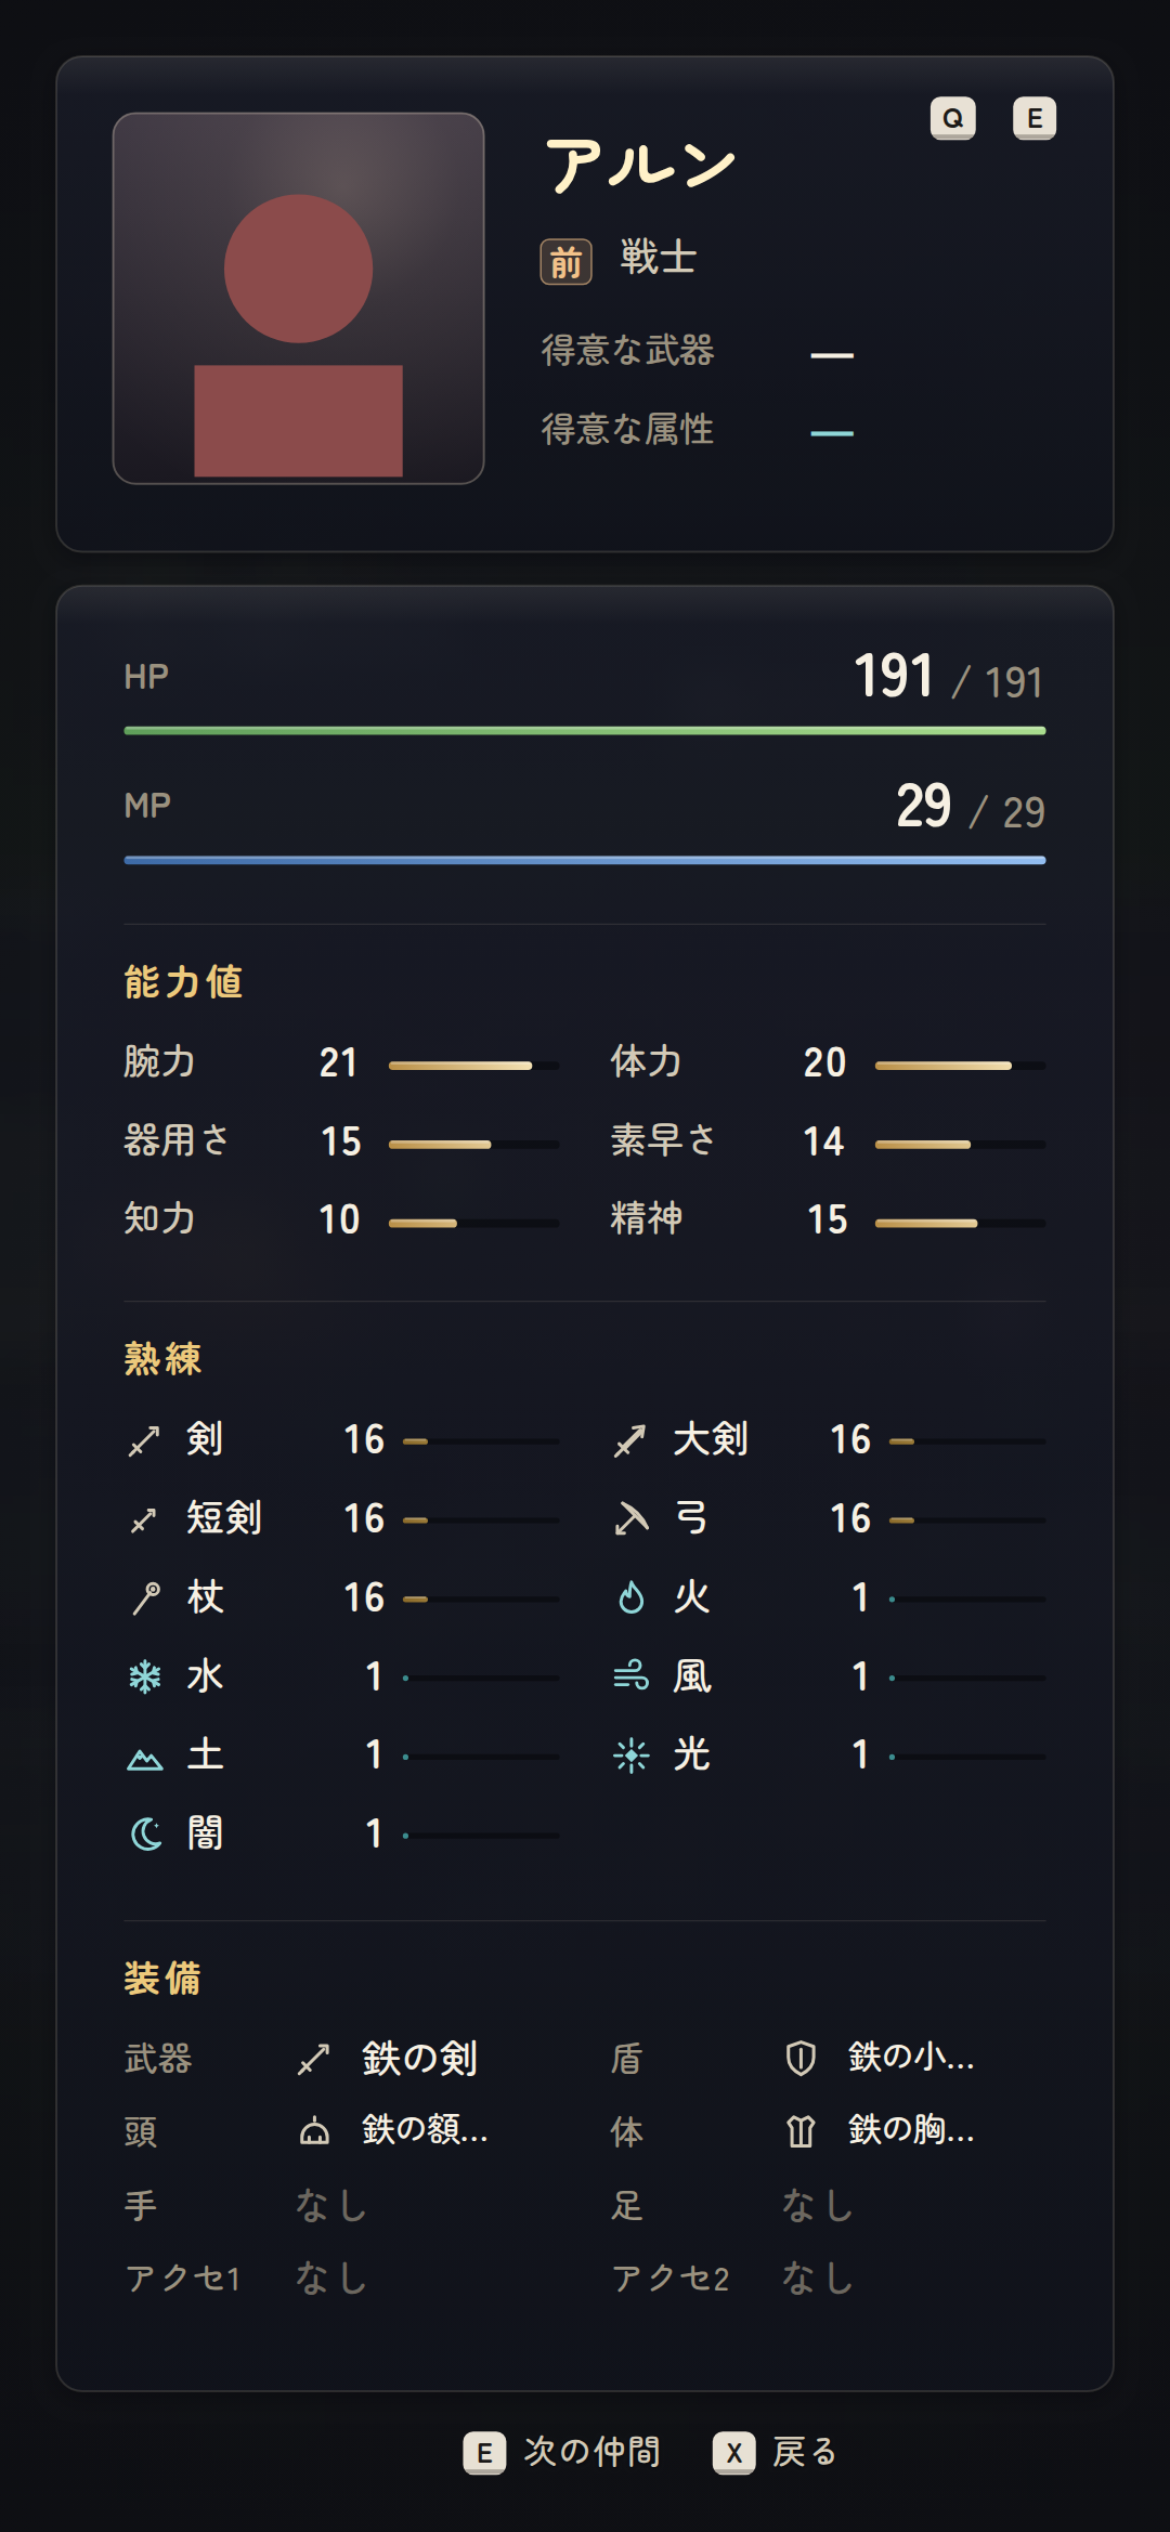
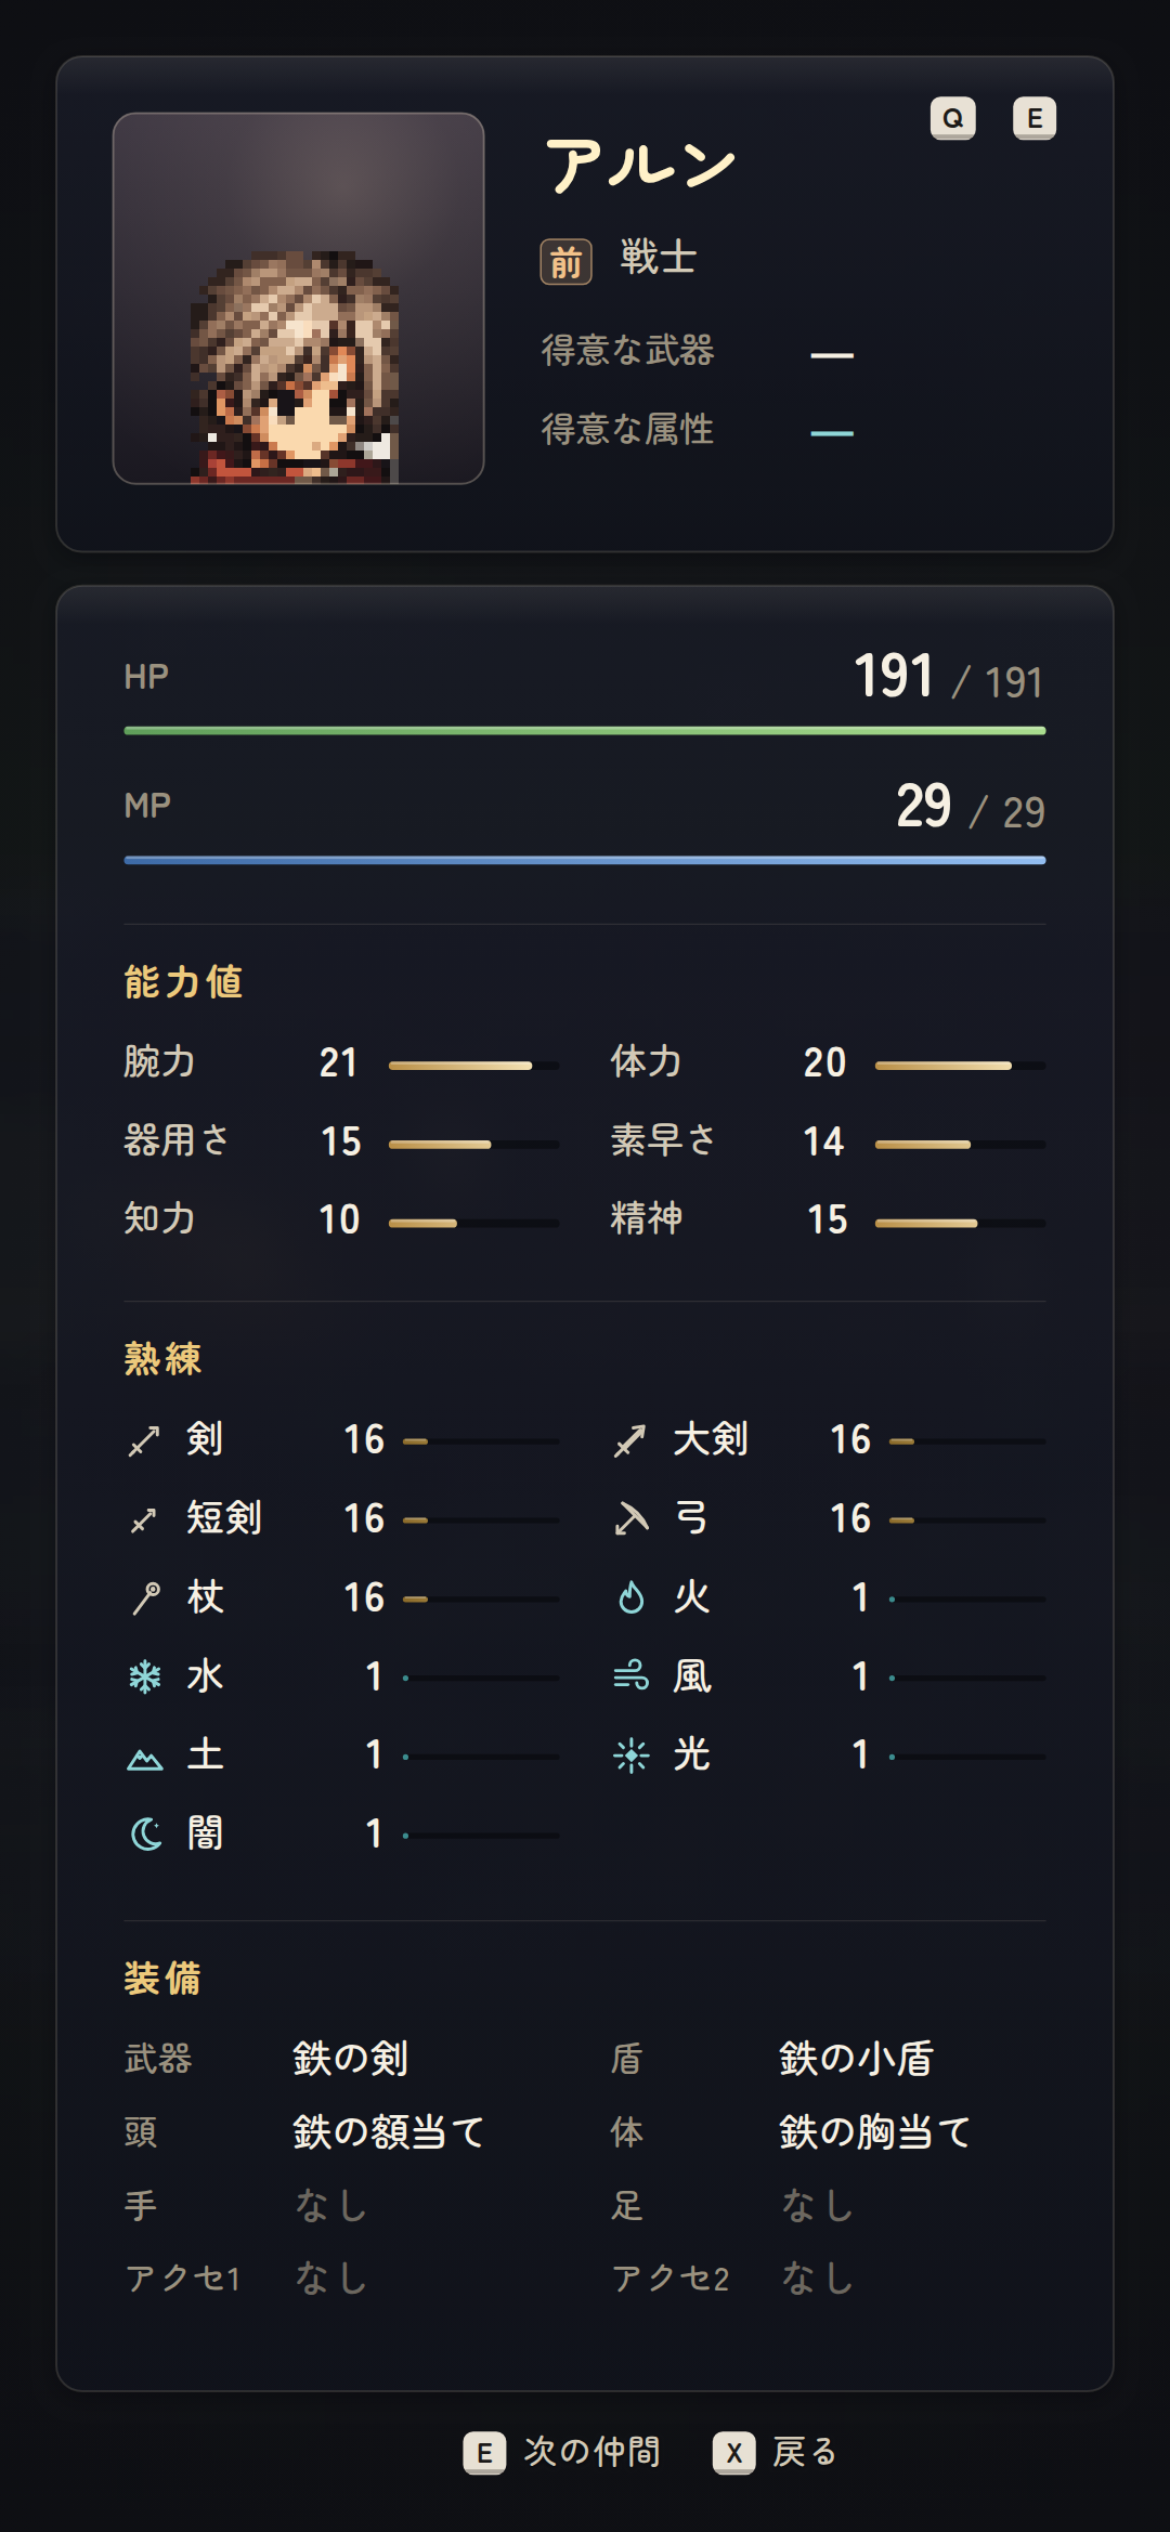
chronicle v2: refresh menu screenshots
Claude-Session: https://claude.ai/code/session_0177zLTT6UFzP7vKu3AgJSLT

Changed region(s): [[0.1538, 0.0624, 0.3692, 0.2184], [0.6462, 0.78, 0.8308, 0.8736], [0.2462, 0.78, 0.4, 0.8736]]

diff --git a/chronicle/v2/src/events/pharos_people.js b/chronicle/v2/src/events/pharos_people.js
@@ -25,7 +25,7 @@
     { text: ['よい灯りを。\n灯台の火は、細りはじめて三晩。\nきのう、とうとう消えちまった。', '灯台の光が町の時計がわり\nだったのにねえ。'] },
   ]);
   D.pharos_bench_old = say('bench_old', [
-    { cond: 'prologue_done', text: X ? ['わしの祖父の代から、\nずっと夜じゃったよ。', '……いや、戦のころまでは、\nもう少し……。\nはて、何の戦じゃったか。'] : '' },
+    { cond: 'prologue_done', text: ['わしの祖父の代から、\nずっと夜じゃったよ。', '……いや、戦のころまでは、\nもう少し……。\nはて、何の戦じゃったか。'] },
     { text: ['跳ね橋を上げさせたのは\n領主さまよ。魔物が橋を\n渡ってこぬようにな。', 'わしの祖父の代から、\nずっと夜じゃったよ。……たぶんな。'] },
   ]);
   D.pharos_merchant = say('merchant', [
